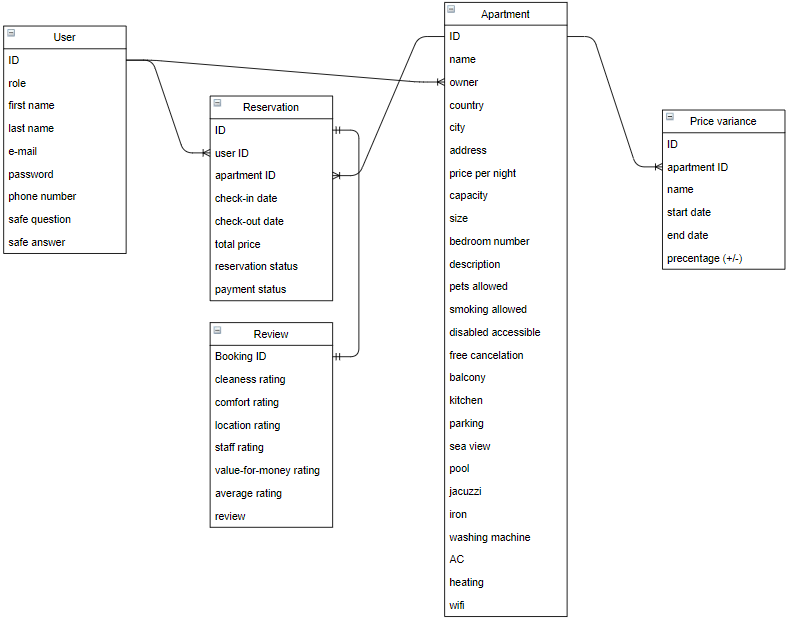
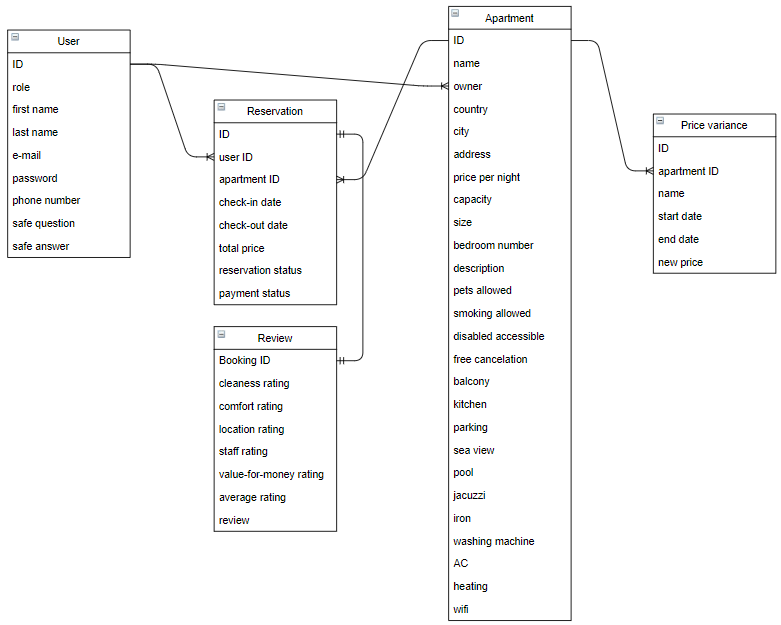
updated price variance

diff --git a/Booking/src/main/java/com/lolekibolek/Booking/persistence/entities/PriceVariance.java b/Booking/src/main/java/com/lolekibolek/Booking/persistence/entities/PriceVariance.java
@@ -24,6 +24,6 @@ public class PriceVariance {
 	private String name;
 	private Date startDate;
 	private Date endDate;
-	private int percentage;
+	private float newPrice;
 
 }
